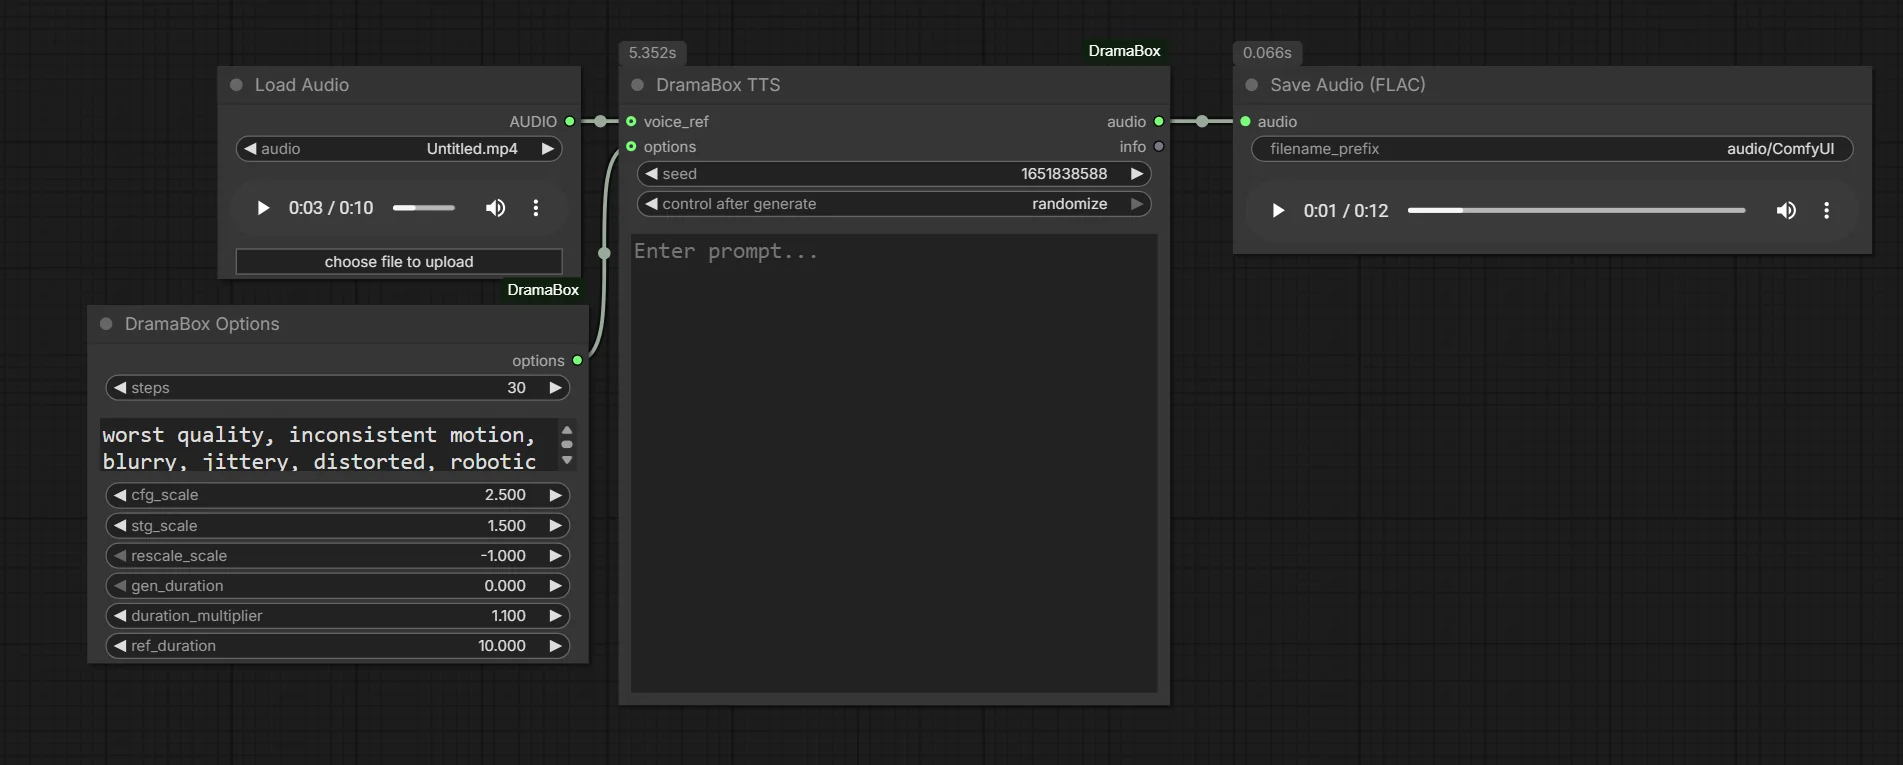
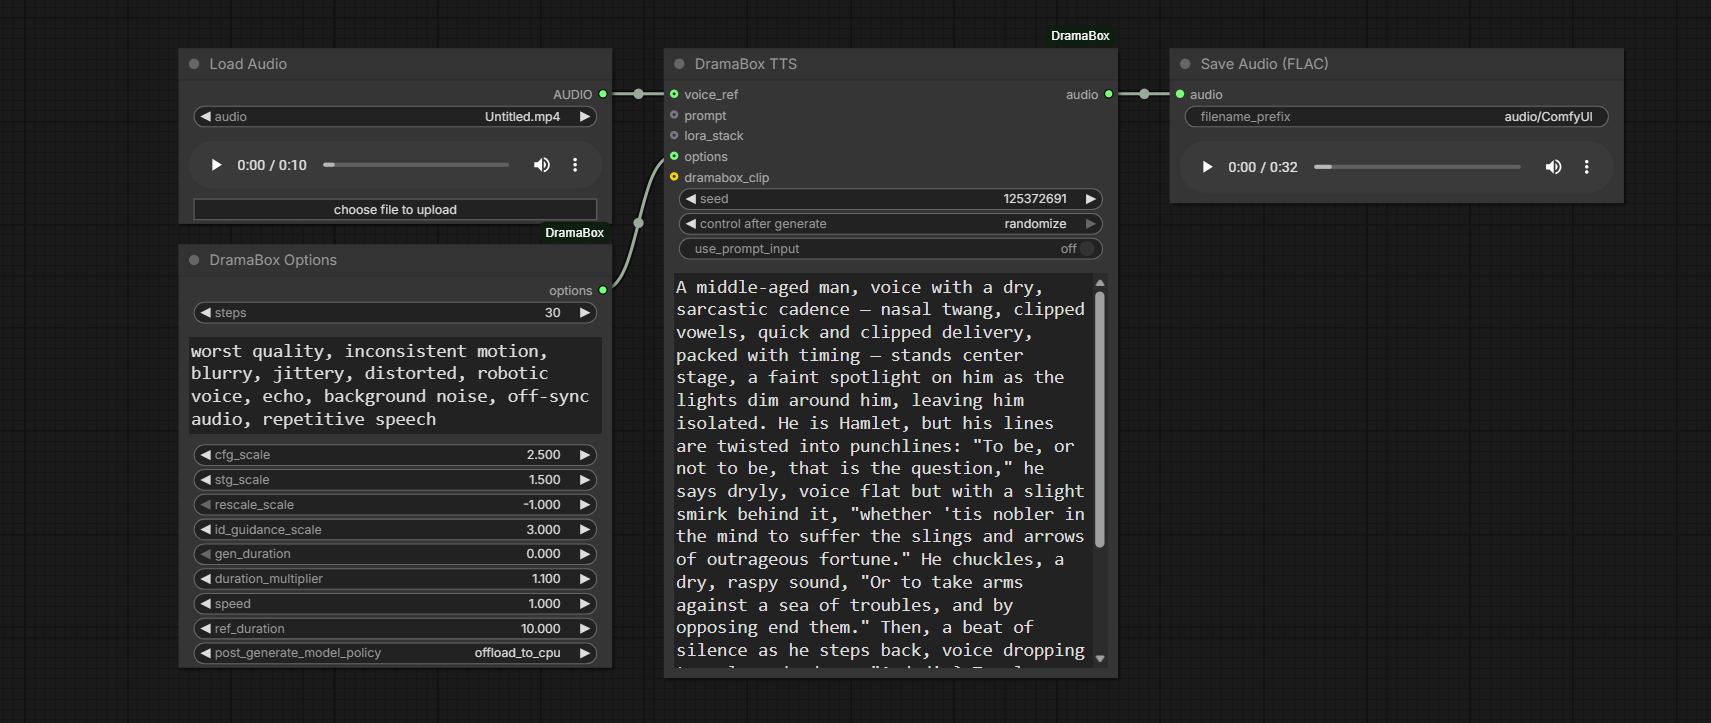
Add prompt generator workflow with audio loading and saving functionality

Changed region(s): [[0.031, 0.0304, 0.9912, 0.9433]]

diff --git a/js/dramabox_tts.js b/js/dramabox_tts.js
@@ -168,6 +168,17 @@ app.registerExtension({
                 "(downloaded automatically on first use). Connect a DramaBox CLIP Loader node " +
                 "to override per-workflow.",
         },
+        {
+            id: "DramaBox.offloadTextEncoderAfterEncode",
+            name: "Offload text encoder after prompt encoding",
+            category: ["DramaBox", "Text Encoder", "Memory"],
+            type: "boolean",
+            defaultValue: true,
+            tooltip:
+                "When enabled (recommended), DramaBox offloads Gemma to CPU right after " +
+                "prompt encoding. This lowers VRAM pressure for diffusion stages. Disable " +
+                "if you prefer maximum throughput on very high-VRAM GPUs.",
+        },
     ],
 });
 

diff --git a/nodes/dramabox_tts.py b/nodes/dramabox_tts.py
@@ -105,6 +105,37 @@ def _get_dramabox_setting(key, default=None):
         pass
     return default
 
+
+def _get_dramabox_bool_setting(key: str, default: bool = False) -> bool:
+    """Read a boolean DramaBox user setting with tolerant coercion."""
+    v = _get_dramabox_setting(key, default)
+    if isinstance(v, bool):
+        return v
+    if isinstance(v, (int, float)):
+        return bool(v)
+    if isinstance(v, str):
+        return v.strip().lower() in {"1", "true", "yes", "on"}
+    return bool(default)
+
+
+def _offload_clip_patcher_to_cpu(clip_obj) -> None:
+    """Offload a CLIP patcher to CPU and remove it from loaded-GPU tracking."""
+    import comfy.model_management as mm
+
+    patcher = getattr(clip_obj, "patcher", None)
+    if patcher is None:
+        return
+
+    try:
+        patcher.unpatch_model(patcher.offload_device)
+    except Exception as e:
+        logger.debug("[DramaBox] clip patcher offload failed: %s", e)
+
+    mm.current_loaded_models[:] = [
+        m for m in mm.current_loaded_models if id(m.model) != id(patcher)
+    ]
+    mm.soft_empty_cache()
+
 def _find_or_download_gemma_path():
     """Return a local path to the default Gemma safetensors.
 
@@ -666,13 +697,13 @@ class DramaBoxTTS:
                         "tooltip": "Connect any text source here to override the text widget.",
                     },
                 ),
-                "options": (
-                    "DRAMABOX_OPTIONS",
-                    {"tooltip": "Connect DramaBox Options for cfg, steps, duration, and more."},
-                ),
                 "lora_stack": (
                     "LORA_STACK",
                     {"tooltip": "Optional LoRA stack (from any LoRA stacker node). Applied to the transformer only."},
+                ),
+                "options": (
+                    "DRAMABOX_OPTIONS",
+                    {"tooltip": "Connect DramaBox Options for cfg, steps, duration, and more."},
                 ),
                 "dramabox_clip": (
                     "CLIP",
@@ -856,6 +887,33 @@ class DramaBoxTTS:
             cond_neg   = _clip_enc.encode_from_tokens(tokens_neg, return_dict=True)
             a_ctx_neg  = cond_neg["cond"].to(device=device, dtype=torch_dtype)
             del cond_neg, tokens_neg
+
+        # Guided denoising concatenates positive/negative contexts along batch,
+        # so sequence length must match. Prompt trimming may produce different
+        # lengths (e.g. 256 vs 128), so pad the shorter one on the left.
+        if a_ctx_neg is not None and a_ctx.dim() == 3 and a_ctx_neg.dim() == 3:
+            if a_ctx.shape[1] != a_ctx_neg.shape[1]:
+                target_len = max(a_ctx.shape[1], a_ctx_neg.shape[1])
+
+                def _left_pad_ctx(ctx: torch.Tensor, tgt: int) -> torch.Tensor:
+                    cur = ctx.shape[1]
+                    if cur >= tgt:
+                        return ctx[:, -tgt:, :]
+                    pad = ctx.new_zeros((ctx.shape[0], tgt - cur, ctx.shape[2]))
+                    return torch.cat((pad, ctx), dim=1)
+
+                logger.info(
+                    "[DramaBox] Aligning context lengths for CFG: pos=%d neg=%d -> %d",
+                    a_ctx.shape[1], a_ctx_neg.shape[1], target_len,
+                )
+                a_ctx = _left_pad_ctx(a_ctx, target_len)
+                a_ctx_neg = _left_pad_ctx(a_ctx_neg, target_len)
+
+        # Default-on behavior: offload Gemma to CPU right after text encoding.
+        # Can be disabled in Comfy Settings > DramaBox > Text Encoder > Memory.
+        if _get_dramabox_bool_setting("DramaBox.offloadTextEncoderAfterEncode", True):
+            _offload_clip_patcher_to_cpu(_clip_enc)
+
         mm.soft_empty_cache()
 
         # ── 6. Build denoiser ────────────────────────────────────────────

diff --git a/README.md b/README.md
@@ -8,7 +8,7 @@ ComfyUI custom nodes for [DramaBox](https://github.com/resemble-ai/DramaBox) —
 |------|-------------|
 | **DramaBox TTS** | Generates speech audio from a text prompt. Optionally accepts a voice reference clip and advanced options. All model weights are downloaded automatically on first use. |
 | **DramaBox CLIP Loader** | Loads a Gemma text encoder from your `text_encoders` folder. (Optional) Connect to the TTS node's `dramabox_clip` input to override the default encoder. |
-| **DramaBox Options** | Advanced generation settings (steps, CFG scale, duration, etc.). (Optional) Connect to the DramaBox TTS node's `options` input. |
+| **DramaBox Options** | Advanced generation settings (steps, CFG scale, duration, memory policy, etc.). (Optional) Connect to the DramaBox TTS node's `options` input. |
 
 ## Text Encoder
 
@@ -18,7 +18,19 @@ DramaBox uses a Gemma 3 12B text encoder. By default the node loads **`gemma_3_1
 
 **Per-installation preference** — open *ComfyUI Settings → DramaBox → Default Text Encoder filename* and enter the filename of any Gemma safetensors already in your `text_encoders` folder (e.g. `gemma_3_12b_it_fp8_scaled.safetensors`). Leave it blank to keep the fp4 default.
 
+**Memory preference** — open *ComfyUI Settings → DramaBox → Text Encoder → Memory* and keep **Offload text encoder after prompt encoding** enabled (default) to move Gemma back to CPU immediately after text encoding. This lowers VRAM usage for the diffusion stages. If you have plenty of VRAM and prefer maximum throughput, you can disable it.
+
 **Per-workflow override** — add a **DramaBox CLIP Loader** node, select the model you want, and connect its output to the TTS node's `dramabox_clip` input. This takes precedence over the global preference and lets you switch encoders between workflows without touching settings.
+
+### Post-generate memory policy (Options node)
+
+The **DramaBox Options** node includes `post_generate_model_policy` with three modes:
+
+- `keep_loaded` — fastest next run, highest persistent memory usage.
+- `offload_to_cpu` — unloads DramaBox models from VRAM after generation but keeps them in CPU RAM for faster reuse.
+- `unload` — fully unloads models from both VRAM and RAM; next run reloads from disk.
+
+For most users, `offload_to_cpu` is a good balance between memory savings and iteration speed.
 
 <div align="center">
   <img src="docs/images/example.png" alt="DramaBox">